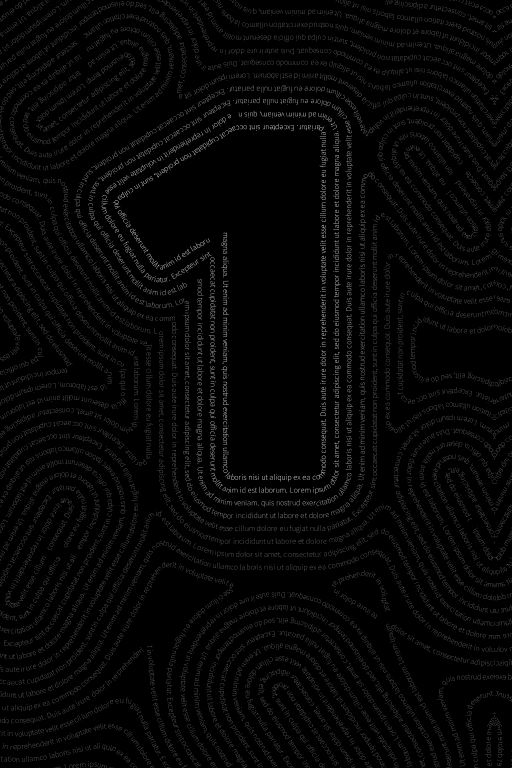
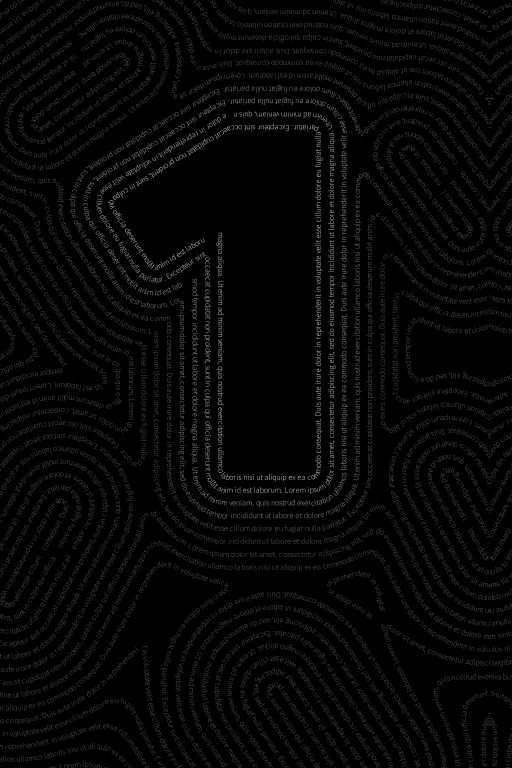
Move the cover's 1 a little further left again
Fourth round off the phone: the 1 alone, a bit further left; the 3 and
the 4 stay. Its nudge is now -0.045 of the font size, which puts the
outline's box at -40.5 px on the 512-wide master (from -35.5), a shift
of -22 from the pre-nudge mask.

Claude-Session: https://claude.ai/code/session_01GG5LX9b7U1wkv9njBzCPf4

Changed region(s): [[0.0, 0.0, 1.0, 1.0]]

diff --git a/tools/textart/render.qml b/tools/textart/render.qml
@@ -62,11 +62,11 @@ Window {
     ///
     /// Set off device reports, not measured: after the painter's
     /// half-weight shift the 1 and the 4 still read right of centre, and
-    /// the 3 less left than the rule had put it. Three rounds on a phone
+    /// the 3 less left than the rule had put it. Four rounds on a phone
     /// got here; the first sent the 3 and the 4 right, which overshot the
     /// 3 and was the wrong way for the 4. Single counts only -- a correction is for a shape,
     /// and an 13 is not a 1 and a 3 side by side as far as the eye goes.
-    readonly property var coverNudge: ({ "1": -0.035, "3": 0.004, "4": -0.022 })
+    readonly property var coverNudge: ({ "1": -0.045, "3": 0.004, "4": -0.022 })
 
     /// One cover master. `key` is the count, "99+", or "none".
     function coverJob(key) {

diff --git a/crates/vuo-shim/tests/qml_cover.rs b/crates/vuo-shim/tests/qml_cover.rs
@@ -479,19 +479,20 @@ fn outline_offset(key: &str) -> f64 {
 
 /// The 1, the 3 and the 4 sit where they LOOK centred, which is not where
 /// the painter's weight rule alone put them -- see `coverNudge` in
-/// tools/textart/render.qml. Off a device, over three rounds: in the end
+/// tools/textart/render.qml. Off a device, over four rounds: in the end
 /// all three read right of where the rule put them.
 ///
 /// In pixels of the 512-wide master, on the outline's ink box, and each
 /// held to within a pixel of where it was settled. The rule alone left the
 /// 1 at -18.5, the 3 at -9 and the 4 at +1.5; the rounds on a phone had
-/// them at -25.5, +3 and +7.5, then -30.5, -2 and -4.5. No earlier set
+/// them at -25.5, +3 and +7.5, then -30.5, -2 and -4.5, then the 1 alone
+/// at -35.5. No earlier set
 /// passes, so a repaint that
 /// drops the nudge, or masks never repainted after it changed, fail here.
 /// The 2 is the control: nobody asked for it to move, and it has not.
 #[test]
 fn the_one_three_and_four_are_centred_by_eye() {
-    for (key, want) in [("1", -35.5), ("3", -7.0), ("4", -9.5), ("2", -5.0)] {
+    for (key, want) in [("1", -40.5), ("3", -7.0), ("4", -9.5), ("2", -5.0)] {
         let got = outline_offset(key);
         assert!(
             (got - want).abs() < 1.0,
